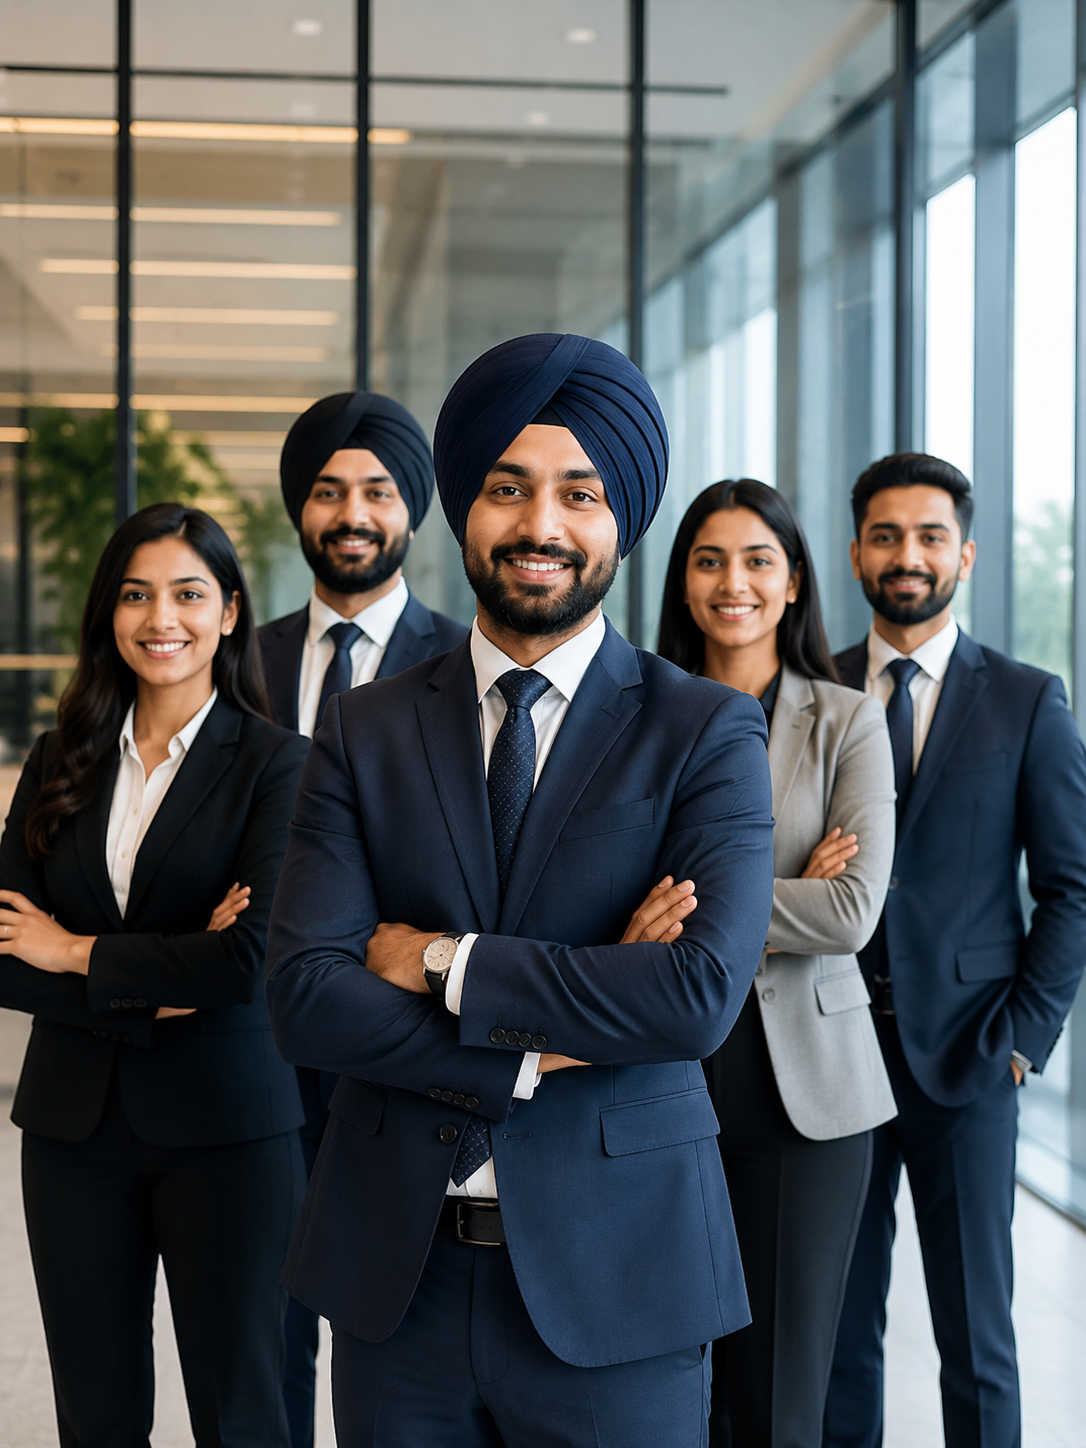
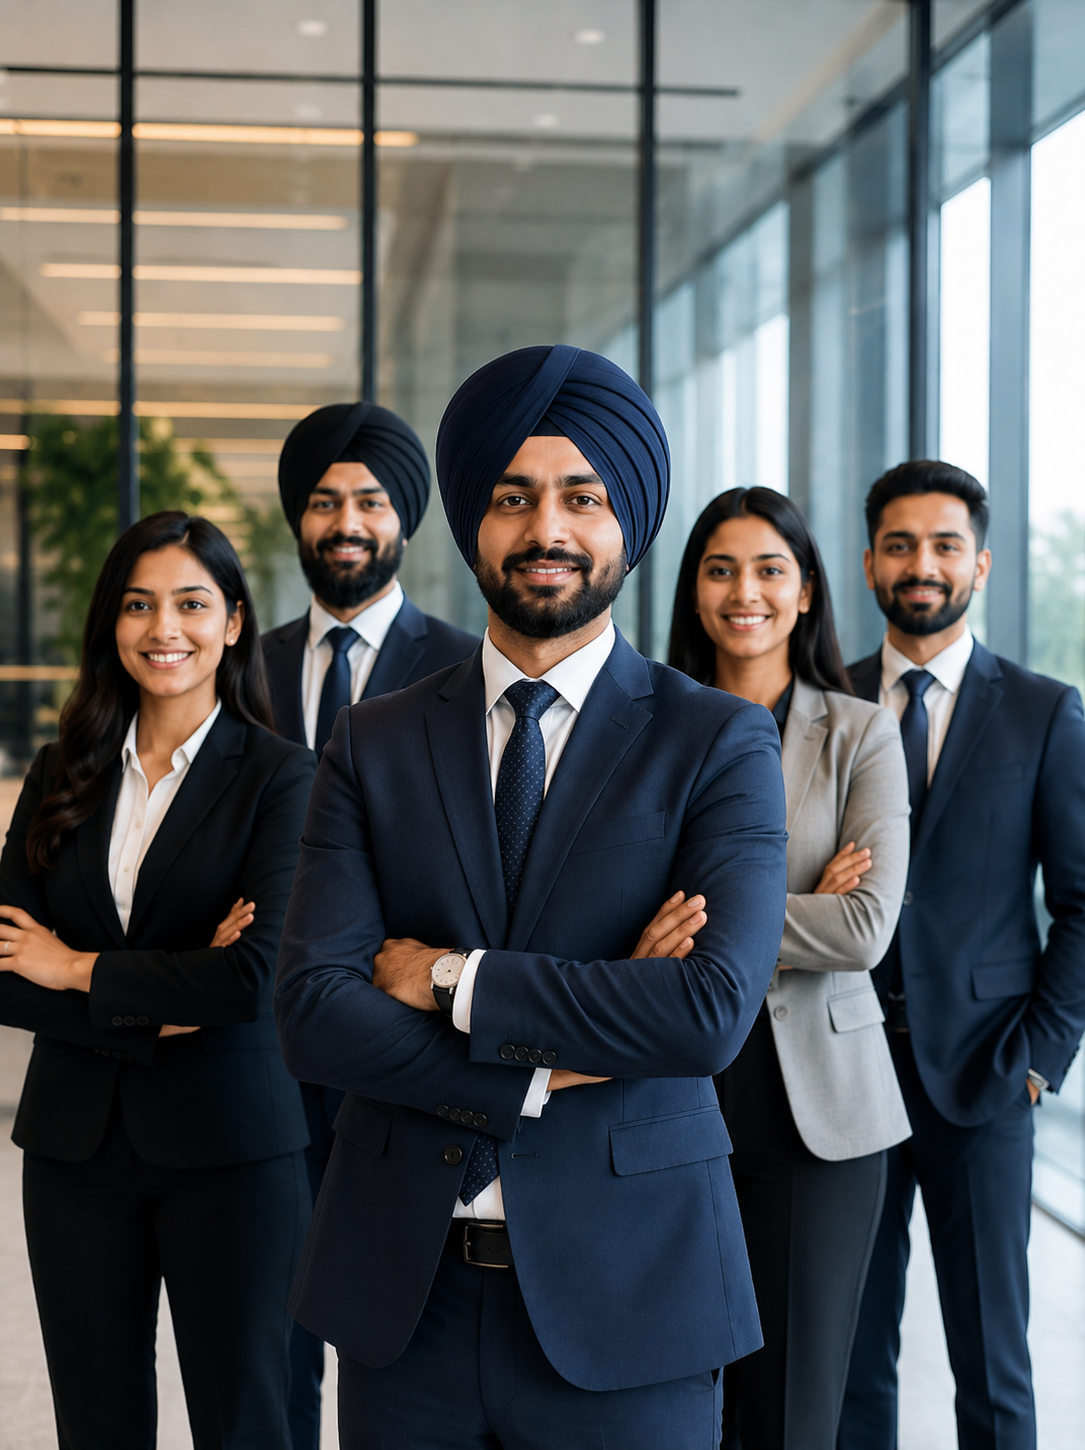
Add bokeh CTA background to homepage join section; update join page newsletter image

diff --git a/index.html b/index.html
@@ -258,7 +258,7 @@
 
     /* ── JOIN CTA ── */
     .join-cta{
-      position:relative;min-height:708px;background:var(--dark);
+      position:relative;min-height:708px;
       display:flex;align-items:center;padding:80px var(--px);overflow:hidden
     }
     .join-cta-bg{position:absolute;inset:0}
@@ -790,6 +790,10 @@
 
 <!-- ===== JOIN CTA ===== -->
 <section class="join-cta" id="join">
+  <div class="join-cta-bg">
+    <img src="images/join-cta-bg.jpg" alt="">
+    <div class="hero-overlay"></div>
+  </div>
   <div class="join-cta-card">
     <div>
       <h2 class="join-cta-heading">Join the Sikh Professionals Network</h2>
